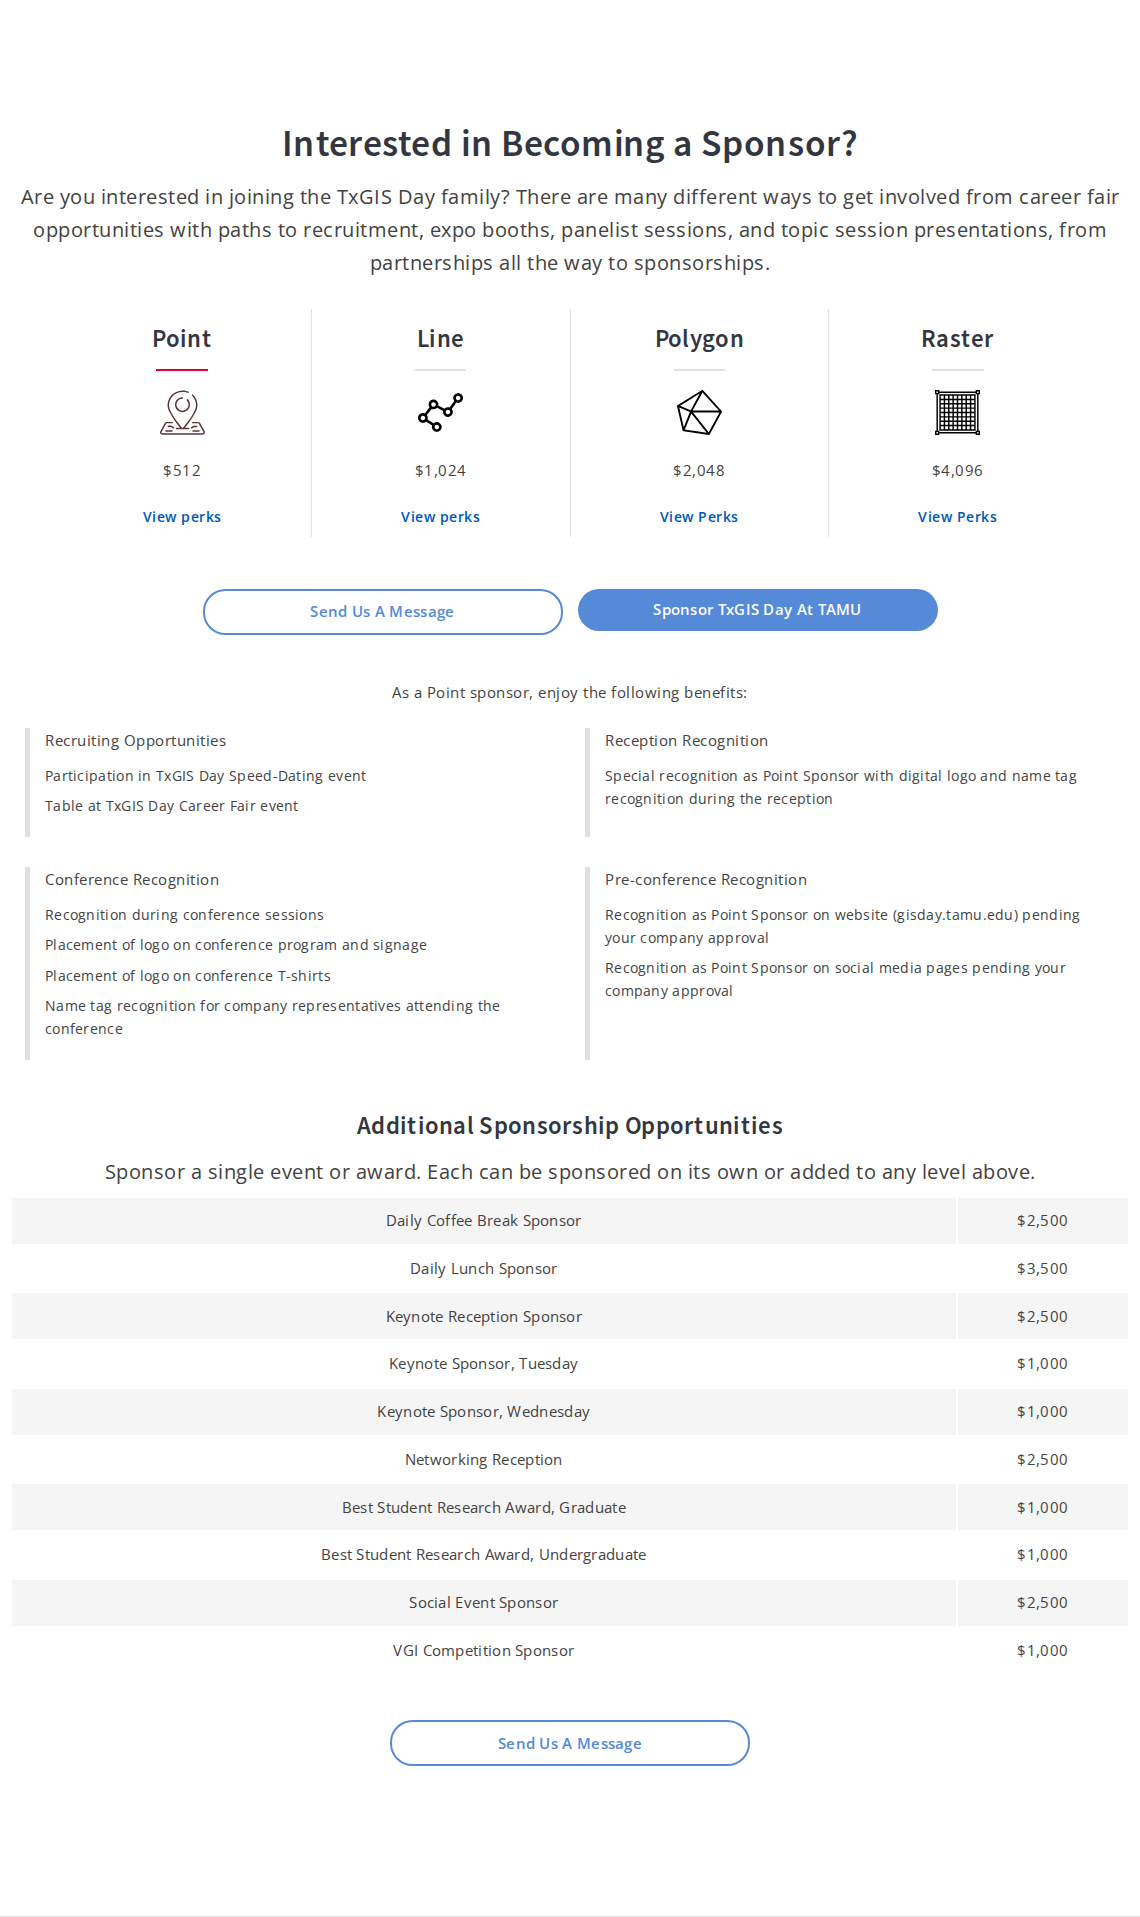
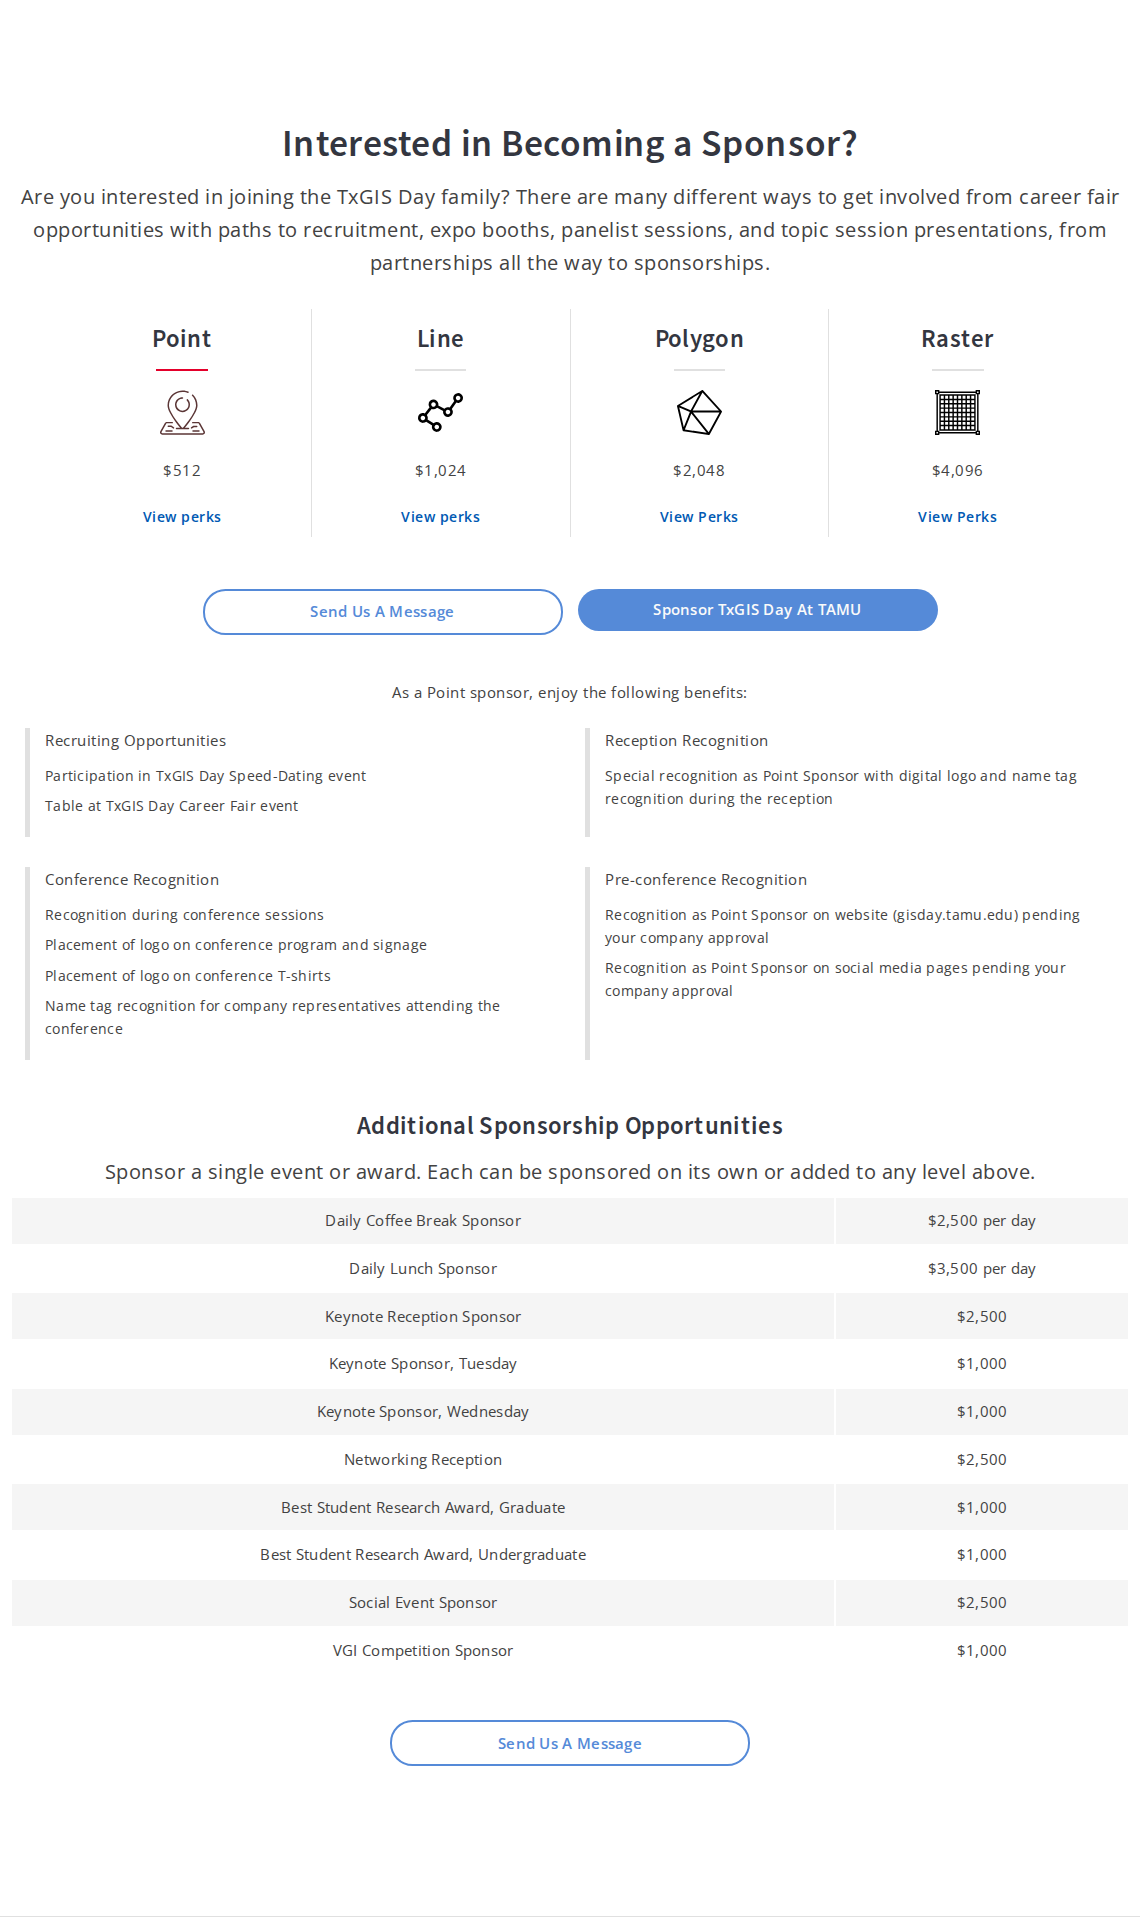
feat(gisday-platform-ngx-core): Say the coffee break and lunch sponsorships are per day
Refs #1658

diff --git a/libs/gisday/platform/ngx/core/src/lib/pages/sponsors/sponsors-tamu/sponsors-tamu.component.html b/libs/gisday/platform/ngx/core/src/lib/pages/sponsors/sponsors-tamu/sponsors-tamu.component.html
@@ -273,11 +273,11 @@
           <tbody>
             <tr>
               <td>Daily Coffee Break Sponsor</td>
-              <td>$2,500</td>
+              <td>$2,500 per day</td>
             </tr>
             <tr>
               <td>Daily Lunch Sponsor</td>
-              <td>$3,500</td>
+              <td>$3,500 per day</td>
             </tr>
             <tr>
               <td>Keynote Reception Sponsor</td>
